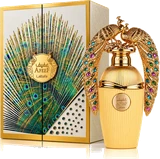
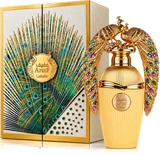
Fotos: reflexo do chão das caixas claras vira degradê suave (sem faixa branca irregular)
Claude-Session: https://claude.ai/code/session_01FdAVQZNArXfWkT9qENV8WZ

diff --git a/src/lib/cutouts.ts b/src/lib/cutouts.ts
@@ -25,7 +25,7 @@ const CUT = new Set([
 ])
 
 // PHOTO_V muda quando as fotos são refeitas, para o navegador não mostrar a versão antiga guardada
-const PHOTO_V = 8
+const PHOTO_V = 9
 export const cutoutOf = (id: string) => (CUT.has(id) ? `/hero/${id}.webp?v=${PHOTO_V}` : undefined)
 
 /** Sempre usa o recorte limpo quando ele existe (mesmo se o painel tiver uma foto com fundo branco). */
